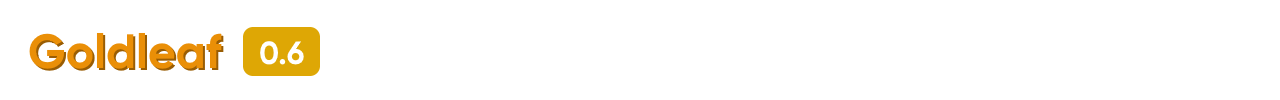
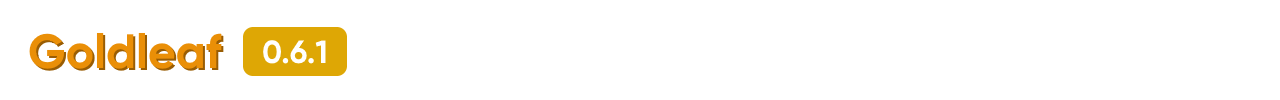
Fixes in 0.6.1

Changed region(s): [[0.1875, 0.27, 0.2812, 0.78]]

diff --git a/Goldtree/Goldtree/Commands.cs b/Goldtree/Goldtree/Commands.cs
@@ -43,7 +43,7 @@ namespace gtree
 
     public static class USBCommands
     {
-        private const int CommandBlockLength = 0x2000;
+        private const int CommandBlockLength = 0x1000;
         private static byte[] CommandBlockBuf = new byte[CommandBlockLength];
 
         private static readonly byte ReadPipeId = 0x81;
@@ -82,7 +82,7 @@ namespace gtree
             Writer.Write(Encoding.UTF8.GetBytes(Str));
         }
 
-        public static byte[] ReadBuffer(this UsbK USB, uint Size)
+        public static byte[] ReadBuffer(this UsbK USB, ulong Size)
         {
             var data = new byte[Size];
             USB.ReadPipe(ReadPipeId, data, (int)Size, out int _, IntPtr.Zero);
@@ -178,11 +178,11 @@ namespace gtree
                                     {
                                         var path = inblock.ReadStringEx().NormalizeAsPath();
                                         uint type = 0;
-                                        uint filesize = 0;
+                                        ulong filesize = 0;
                                         if(File.Exists(path))
                                         {
                                             type = 1;
-                                            filesize = (uint)new FileInfo(path).Length;
+                                            filesize = (ulong)new FileInfo(path).Length;
                                         }
                                         else if(Directory.Exists(path)) type = 2;
                                         else
@@ -280,8 +280,8 @@ namespace gtree
                                 case CommandId.ReadFile:
                                     {
                                         var path = inblock.ReadStringEx().NormalizeAsPath();
-                                        var offset = inblock.ReadUInt32();
-                                        var size = inblock.ReadUInt32();
+                                        var offset = inblock.ReadUInt64();
+                                        var size = inblock.ReadUInt64();
                                         try
                                         {
                                             if(string.IsNullOrEmpty(LastRFile) || (LastRFile != path))
@@ -294,13 +294,13 @@ namespace gtree
                                                 LastRFile = path;
                                                 LastReadFile = new BinaryReader(new FileStream(LastRFile, FileMode.Open, FileAccess.Read));
                                             }
-                                            LastReadFile.BaseStream.Seek(offset, SeekOrigin.Begin);
+                                            LastReadFile.BaseStream.Seek((long)offset, SeekOrigin.Begin);
                                             byte[] data = new byte[size];
                                             var rbytes = LastReadFile.Read(data, 0, (int)size);
                                             if(rbytes > 0)
                                             {
                                                 WriteOutBlockBase(Command.ResultSuccess);
-                                                outblock.Write((uint)rbytes);
+                                                outblock.Write((ulong)rbytes);
                                                 bufs.Add(data);
                                             }
                                         }
@@ -314,7 +314,7 @@ namespace gtree
                                 case CommandId.WriteFile:
                                     {
                                         var path = inblock.ReadStringEx().NormalizeAsPath();
-                                        var size = inblock.ReadUInt32();
+                                        var size = inblock.ReadUInt64();
                                         var data = USB.ReadBuffer(size);
                                         try
                                         {

diff --git a/Goldleaf/Source/fs/fs_Explorer.cpp b/Goldleaf/Source/fs/fs_Explorer.cpp
@@ -696,8 +696,8 @@ namespace fs
         bool ex = false;
         std::string path = this->MakeFull(Path);
         u32 type = 0;
-        u32 tmpfsz = 0;
-        usb::ProcessCommand<usb::CommandId::StatPath>(usb::InString(path), usb::Out32(type), usb::Out32(tmpfsz));
+        u64 tmpfsz = 0;
+        usb::ProcessCommand<usb::CommandId::StatPath>(usb::InString(path), usb::Out32(type), usb::Out64(tmpfsz));
         ex = ((type == 1) || (type == 2));
         return ex;
     }
@@ -707,8 +707,8 @@ namespace fs
         bool ex = false;
         std::string path = this->MakeFull(Path);
         u32 type = 0;
-        u32 tmpfsz = 0;
-        usb::ProcessCommand<usb::CommandId::StatPath>(usb::InString(path), usb::Out32(type), usb::Out32(tmpfsz));
+        u64 tmpfsz = 0;
+        usb::ProcessCommand<usb::CommandId::StatPath>(usb::InString(path), usb::Out32(type), usb::Out64(tmpfsz));
         ex = (type == 1);
         return ex;
     }
@@ -718,8 +718,8 @@ namespace fs
         bool ex = false;
         std::string path = this->MakeFull(Path);
         u32 type = 0;
-        u32 tmpfsz = 0;
-        usb::ProcessCommand<usb::CommandId::StatPath>(usb::InString(path), usb::Out32(type), usb::Out32(tmpfsz));
+        u64 tmpfsz = 0;
+        usb::ProcessCommand<usb::CommandId::StatPath>(usb::InString(path), usb::Out32(type), usb::Out64(tmpfsz));
         ex = (type == 2);
         return ex;
     }
@@ -762,26 +762,26 @@ namespace fs
 
     u64 USBPCDriveExplorer::ReadFileBlock(std::string Path, u64 Offset, u64 Size, u8 *Out)
     {
-        u32 rsize = 0;
+        u64 rsize = 0;
         std::string path = this->MakeFull(Path);
-        usb::ProcessCommand<usb::CommandId::ReadFile>(usb::InString(path), usb::In32((u32)Offset), usb::In32((u32)Size), usb::Out32(rsize), usb::OutBuffer(Out, Size));
-        return (u64)rsize;
+        usb::ProcessCommand<usb::CommandId::ReadFile>(usb::InString(path), usb::In64(Offset), usb::In64(Size), usb::Out64(rsize), usb::OutBuffer(Out, Size));
+        return rsize;
     }
 
     u64 USBPCDriveExplorer::WriteFileBlock(std::string Path, u8 *Data, u64 Size)
     {
         std::string path = this->MakeFull(Path);
-        usb::ProcessCommand<usb::CommandId::WriteFile>(usb::InString(path), usb::In32((u32)Size), usb::InBuffer(Data, Size));
+        usb::ProcessCommand<usb::CommandId::WriteFile>(usb::InString(path), usb::In64(Size), usb::InBuffer(Data, Size));
         return Size;
     }
 
     u64 USBPCDriveExplorer::GetFileSize(std::string Path)
     {
-        u32 sz = 0;
+        u64 sz = 0;
         std::string path = this->MakeFull(Path);
         u32 tmptype = 0;
-        usb::ProcessCommand<usb::CommandId::StatPath>(usb::InString(path), usb::Out32(tmptype), usb::Out32(sz));
-        return (u64)sz;
+        usb::ProcessCommand<usb::CommandId::StatPath>(usb::InString(path), usb::Out32(tmptype), usb::Out64(sz));
+        return sz;
     }
 
     u64 USBPCDriveExplorer::GetTotalSpace()

diff --git a/Goldleaf/Source/nsp/nsp_Installer.cpp b/Goldleaf/Source/nsp/nsp_Installer.cpp
@@ -264,21 +264,11 @@ namespace nsp
             ncm::CreatePlaceHolder(&cst, &curid, &curid, ncasize);
             u64 noff = 0;
             u64 szrem = ncasize;
-            u64 tmpwritten = 0;
-            u64 bsec = 0;
-            auto t1 = std::chrono::steady_clock::now();
             while(szrem)
             {
-                auto t2 = std::chrono::steady_clock::now();
-                u64 diff = std::chrono::duration_cast<std::chrono::seconds>(t2 - t1).count();
-                if(diff >= 1)
-                {
-                    t1 = t2;
-                    bsec = tmpwritten;
-                    tmpwritten = 0;
-                }
                 u64 rbytes = 0;
                 u64 rsize = std::min(szrem, reads);
+                auto t1 = std::chrono::steady_clock::now();
                 switch(rnca.Type)
                 {
                     case ncm::ContentType::Meta:
@@ -287,13 +277,15 @@ namespace nsp
                         break;
                     default:
                         rbytes = nspentry.ReadFromFile(idxncaname, noff, rsize, rdata);
-                        break;   
+                        break;
                 }
                 ncm::WritePlaceHolder(&cst, &curid, noff, rdata, rbytes);
                 noff += rbytes;
-                tmpwritten += (double)rbytes;
                 szrem -= rbytes;
-                OnContentWrite(rnca, i, ncas.size(), (double)noff, (double)ncasize, bsec);
+                auto t2 = std::chrono::steady_clock::now();
+                u64 diff = std::chrono::duration_cast<std::chrono::milliseconds>(t2 - t1).count();
+                double bsec = (1000.0f / (double)diff) * rbytes; // By elapsed time and written bytes, compute how much data has been written in 1sec.
+                OnContentWrite(rnca, i, ncas.size(), (double)noff, (double)ncasize, (u64)bsec);
             }
             ncmContentStorageRegister(&cst, &curid, &curid);
             ncm::DeletePlaceHolder(&cst, &curid);

diff --git a/Goldleaf/Include/usb/usb_Commands.hpp b/Goldleaf/Include/usb/usb_Commands.hpp
@@ -37,7 +37,7 @@ namespace usb
     static constexpr u32 InputMagic = 0x49434C47; // GLCI
     static constexpr u32 OutputMagic = 0x4F434C47; // GLCO
 
-    static constexpr size_t BlockSize = 0x2000;
+    static constexpr size_t BlockSize = 0x1000;
 
     struct BlockBase
     {
@@ -51,6 +51,7 @@ namespace usb
 
         InCommandBlock(CommandId CmdId);
         void Write32(u32 Value);
+        void Write64(u64 Value);
         void WriteString(std::string Value);
         void WriteBuffer(void *Buf, size_t Size);
         void Send();
@@ -66,6 +67,7 @@ namespace usb
         void Cleanup();
         bool IsValid();
         u32 Read32();
+        u64 Read64();
         std::string ReadString();
         void ReadBuffer(void *Buf, size_t Size);
     };
@@ -101,6 +103,30 @@ namespace usb
             void ProcessAfterOut();
         private:
             u32 &val;
+    };
+
+    class In64 : public CommandArgument
+    {
+        public:
+            In64(u64 Value);
+            void ProcessIn(InCommandBlock &block);
+            void ProcessAfterIn();
+            void ProcessOut(OutCommandBlock &block);
+            void ProcessAfterOut();
+        private:
+            u64 val;
+    };
+
+    class Out64 : public CommandArgument
+    {
+        public:
+            Out64(u64 &Value);
+            void ProcessIn(InCommandBlock &block);
+            void ProcessAfterIn();
+            void ProcessOut(OutCommandBlock &block);
+            void ProcessAfterOut();
+        private:
+            u64 &val;
     };
 
     class InString : public CommandArgument

diff --git a/Goldleaf/Source/usb/usb_Commands.cpp b/Goldleaf/Source/usb/usb_Commands.cpp
@@ -16,6 +16,11 @@ namespace usb
         WriteBuffer(&Value, sizeof(u32));
     }
 
+    void InCommandBlock::Write64(u64 Value)
+    {
+        WriteBuffer(&Value, sizeof(u64));
+    }
+
     void InCommandBlock::WriteString(std::string Value)
     {
         Write32(Value.length());
@@ -58,6 +63,13 @@ namespace usb
     {
         u32 val = 0;
         ReadBuffer(&val, sizeof(u32));
+        return val;
+    }
+
+    u64 OutCommandBlock::Read64()
+    {
+        u64 val = 0;
+        ReadBuffer(&val, sizeof(u64));
         return val;
     }
 
@@ -116,6 +128,48 @@ namespace usb
     }
 
     void Out32::ProcessAfterOut()
+    {
+    }
+
+    In64::In64(u64 Value) : val(Value)
+    {
+    }
+
+    void In64::ProcessIn(InCommandBlock &block)
+    {
+        block.Write64(val);
+    }
+
+    void In64::ProcessAfterIn()
+    {
+    }
+
+    void In64::ProcessOut(OutCommandBlock &block)
+    {
+    }
+
+    void In64::ProcessAfterOut()
+    {
+    }
+
+    Out64::Out64(u64 &Value) : val(Value)
+    {
+    }
+
+    void Out64::ProcessIn(InCommandBlock &block)
+    {
+    }
+
+    void Out64::ProcessAfterIn()
+    {
+    }
+
+    void Out64::ProcessOut(OutCommandBlock &block)
+    {
+        val = block.Read64();
+    }
+
+    void Out64::ProcessAfterOut()
     {
     }
 

diff --git a/Goldtree/Goldtree/Program.cs b/Goldtree/Goldtree/Program.cs
@@ -66,7 +66,7 @@ namespace gtree
     public class Program
     {
         public static readonly string Name = "Goldtree";
-        public static readonly string Description = "Goldleaf's USB PC client";
+        public static readonly string Description = "Goldleaf's USB client for PC";
 
         public static readonly LogMode Log = new LogMode("Log", ConsoleColor.Cyan);
         public static readonly LogMode Warn = new LogMode("Warn", ConsoleColor.Yellow);
@@ -113,7 +113,7 @@ namespace gtree
             }
             catch
             {
-                Error.LLogL("Unable to find USB communication. Are you sure Goldleaf is open and plugged in?");
+                Error.LLogL("Unable to find connection. Have you installed libusbK drivers? Are you sure Goldleaf is open and ready?");
             }
             Console.WriteLine();
             while(true)

diff --git a/Goldleaf/Source/ui/ui_MainMenuLayout.cpp b/Goldleaf/Source/ui/ui_MainMenuLayout.cpp
@@ -74,9 +74,9 @@ namespace ui
 
     void MainMenuLayout::webMenuItem_Click()
     {
-        if(GetLaunchMode() != LaunchMode::Application)
+        if(GetCurrentApplicationId() != GOLDLEAF_APPID)
         {
-            mainapp->CreateShowDialog(set::GetDictionaryEntry(5), set::GetDictionaryEntry(37), { set::GetDictionaryEntry(234) }, true);
+            mainapp->CreateShowDialog(set::GetDictionaryEntry(5), set::GetDictionaryEntry(292), { set::GetDictionaryEntry(234) }, true);
             return;
         }
         std::string out = AskForText(set::GetDictionaryEntry(38), "https://");

diff --git a/Goldleaf/Source/Types.cpp b/Goldleaf/Source/Types.cpp
@@ -117,6 +117,13 @@ bool IsSXOS()
     return false;
 }
 
+u64 GetCurrentApplicationId()
+{
+    u64 appid = 0;
+    svcGetInfo(&appid, InfoType_TitleId, CUR_PROCESS_HANDLE, 0);
+    return appid;
+}
+
 u32 RandomFromRange(u32 Min, u32 Max)
 {
     u32 diff = Max - Min;

diff --git a/Goldleaf/Include/Types.hpp b/Goldleaf/Include/Types.hpp
@@ -108,5 +108,6 @@ bool HasKeyFile();
 bool IsAtmosphere();
 bool IsReiNX();
 bool IsSXOS();
+u64 GetCurrentApplicationId();
 u32 RandomFromRange(u32 Min, u32 Max);
 void EnsureDirectories();
